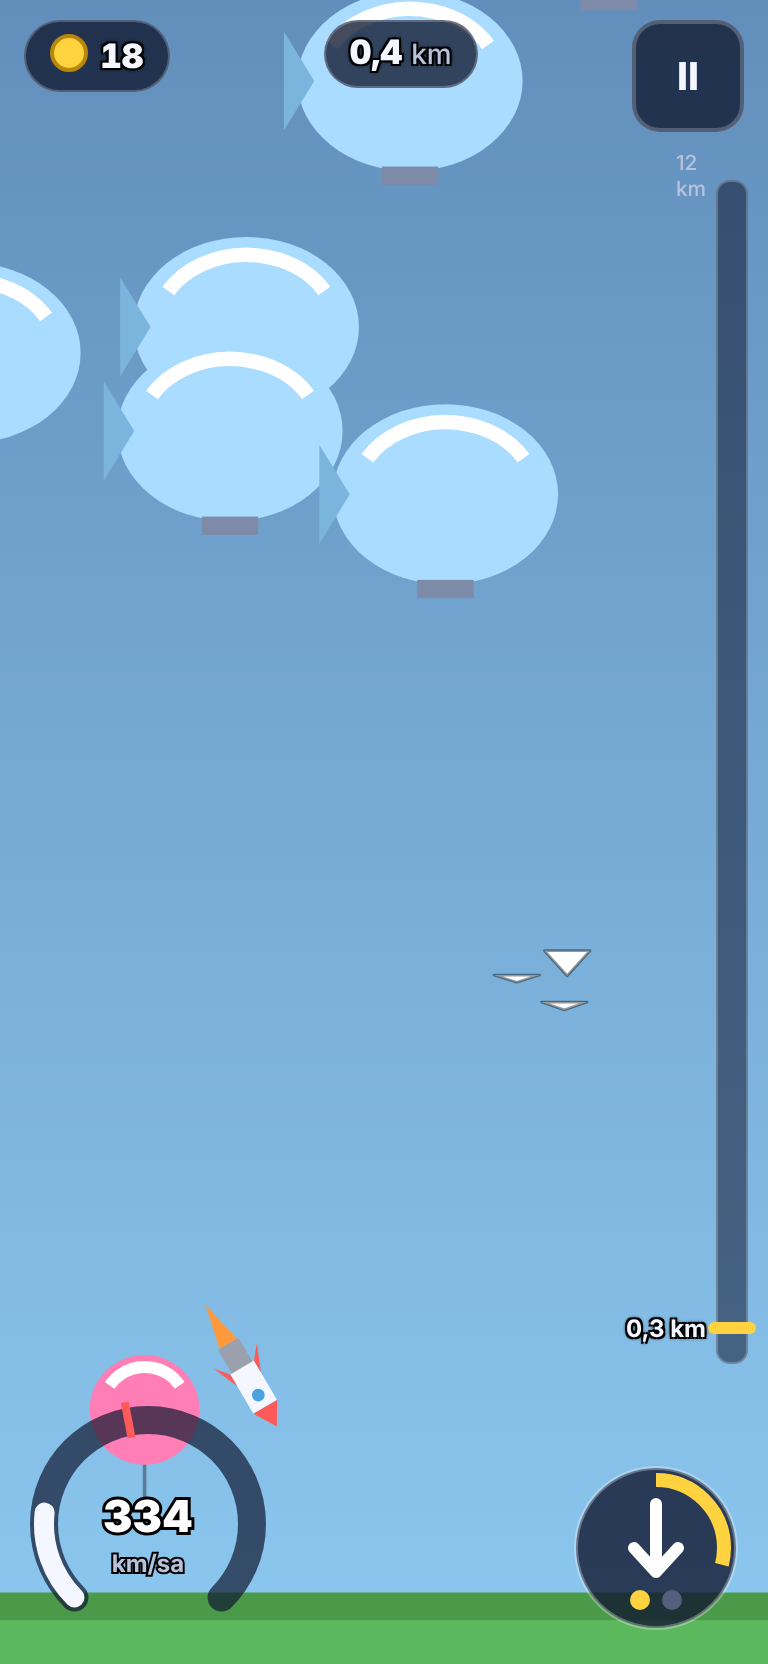
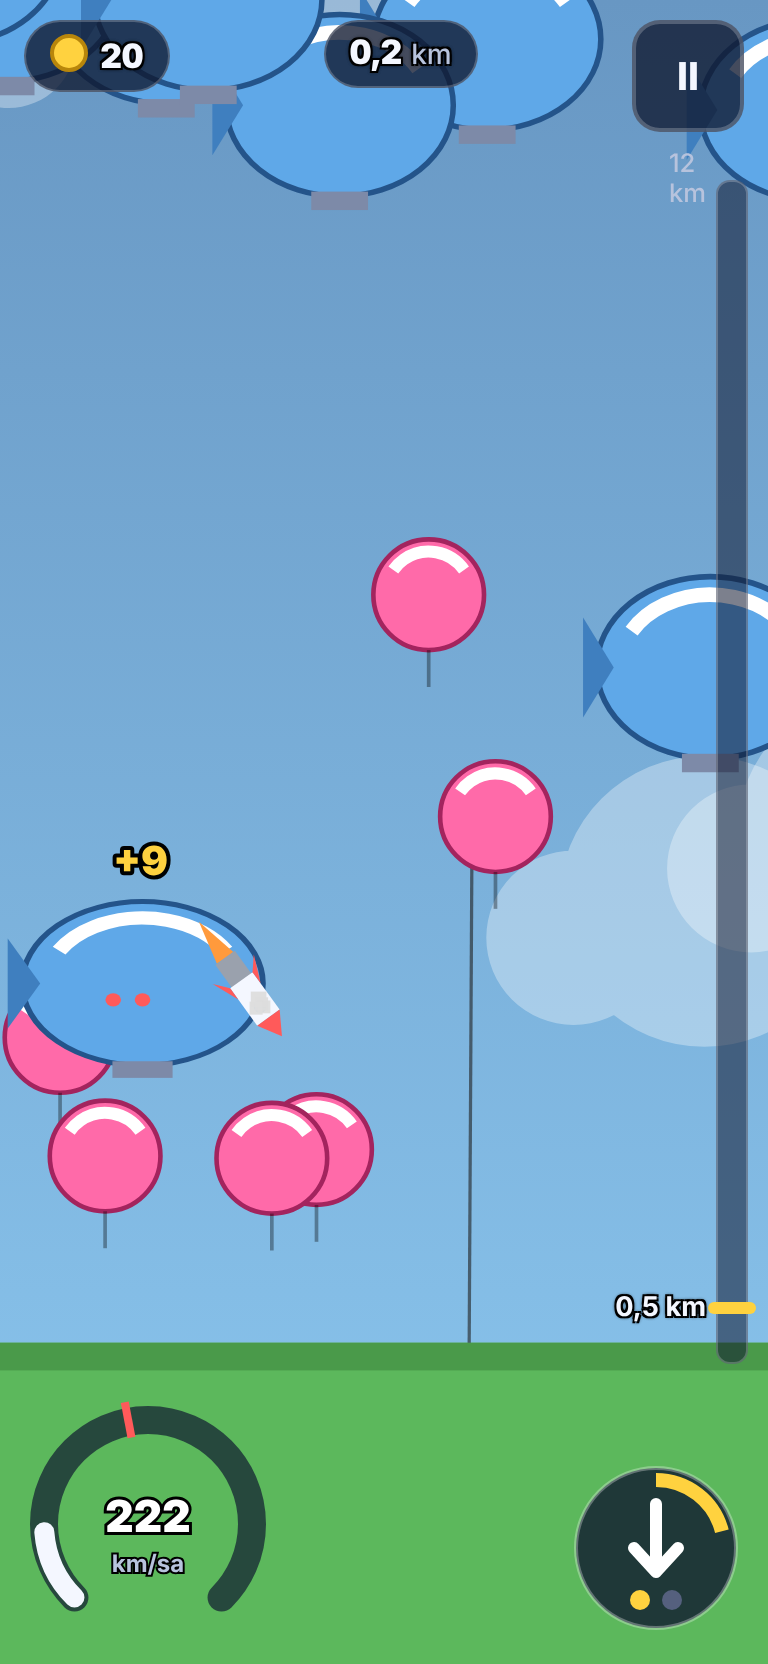
WIP: ara yedek (B0 düzeltmeleri, sim, ses)
Claude-Session: https://claude.ai/code/session_01FT8SNz1Hsnax27do6pkEGm

diff --git a/oyun/b0/index.html b/oyun/b0/index.html
@@ -110,7 +110,7 @@ body.rampada #ipucu{bottom:calc(env(safe-area-inset-bottom,0px) + 34% + 40vw + 1
 </head>
 <body>
 <!-- Üretilmiş yapılandırma (oyun/b0/araclar/ayar_uret.py yazar; elle düzenleme) -->
-<script type="application/json" id="ayar">{"kaynak":"oyun/sim/ucus_sim.py (ayar_uret.py ile üretildi; elle düzenleme)","AYAR":{"dt":0.008333333333333333,"g":30.0,"v_yorunge":600.0,"v_kacis":848.5281374238571,"g_yatay":true,"rho_olcek":400.0,"c_suruk":0.00012,"cd_ses":[[85,1.0],[100,2.4],[115,1.1]],"ses_v":115.0,"ses_sure":0.3,"isi_duvar_v":250.0,"duvar_sure":1.0,"isi_sure":3.0,"uzay_kosul":true,"isi_v":250.0,"isi_y":1000.0,"isi_hiz":3.0,"isi_sogu":25.0,"isi_cd":2.5,"y_karman":3500.0,"y_tropopoz":1000.0,"sonum":22.0,"sonum_yorunge":22.0,"sonum_alt":{"y0":300.0,"y1":3500.0,"ek":7.0},"ust_sonum":[2900.0,6.0],"v_dur":25.0,"dur_sure":2.0,"vx_dur":110.0,"tur_tavan":65.0,"r_roket":4.0,"rampa_y":60.0,"rampa_aci":38.0,"rampa_v":70.0,"rampa_v_sv":16.0,"rampa_oto":3.0,"kalite":{"mukemmel":1.3,"iyi":1.0,"zayif":0.8},"mukemmel_bolge":0.12,"mukemmel_bolge_sv":0.024,"mukemmel_bonus_sv":0.05,"acilis_sekme_dt":1.8,"k_tavan":0.92,"k_sv":0.012,"tekrar_sure":2.0,"dalis_aci":70.0,"dalis_koni":[66.0,76.0],"dalis_menzil":150.0,"dalis_menzil_k":1.0,"dalis_itki":14.0,"dalis_itki_sv":4.0,"dalis_sure":1.2,"bos_dalis_sure":0.4,"bos_dalis_kayip":0.1,"bos_dalis_aci":[-10.0,45.0],"dalis_kap":2,"gosterge_bas":1.0,"gosterge_tr":0.08,"gosterge_diger":0.13,"gosterge_m":0.1,"gosterge_firsat":0.3,"gosterge_sv":0.1,"mukemmel_sekme":0.1,"mukemmel_sekme_tavan":12.0,"kademe_y":25.0,"kademe_vy":78.0,"kademe_vy_sv":6.5,"kademe_vx":15.0,"kademe_vx_sv":6.5,"kademe_x_kayip":0.9,"kademe_ust_vy_kat":0.5,"kademe_cd":0.85,"son_ates":19.5,"ekran_w0":150.0,"ekran_wk":0.5,"ekran_wmax":500.0,"ekran_oran":2.1,"ekran_hedef":7,"romorkor_garanti":false,"romorkor_y":1500.0,"seyrek":{"y":1000.0,"t0":30.0,"adim":10.0,"kat":0.9,"en_az":0.5},"garanti_pay":25.0,"firsat_ara":30.0,"firsat_ara_sv":0.25,"firsat_min":6.0,"firsat_tur_max":5,"firsat_tur_muaf":["romorkor"],"olumcul_ara":22.0,"olumcul_uyari":1.5,"olumcul_rota":true,"kombo_sure":3.0,"kombo_sure_sv":0.5,"kombo_adim":0.05,"kombo_tavan":2.0,"kombo_tavan_sv":0.33,"carpan_tavan":4.0,"bant_carpan":[[1000.0,1.8],[3500.0,3.0]],"izlenme_sv":0.1,"odul_kat":0.1,"nesne_prim":2.0,"rakip_odul":0.45,"km_odul":55.0,"taban_odul":25.0,"sure_odul":0.0,"firsat_guc_kat":{"fisek":2.8,"konfeti":2.8,"jet":3.5,"romorkor":5.5},"fiyat_us":1.55,"ayar_tur":25},"SONUM_ALT":{"y0":300.0,"y1":3500.0,"ek":7.0},"DUVARLAR":{"ses":300},"TIPLER":{"balon":{"sinif":"tr","r":12,"ymin":40,"ymax":200,"w":3.0,"k":0.8,"aci":50,"yan":0.06,"odul":15,"omur":3,"acilis":1},"parti":{"sinif":"tr","r":10,"ymin":30,"ymax":150,"w":2.0,"k":0.7,"aci":42,"yan":0.02,"odul":10,"omur":2,"acilis":1},"zeplin":{"sinif":"tr","r":22,"ymin":80,"ymax":500,"w":1.2,"k":0.85,"aci":45,"yan":0.1,"odul":40,"omur":3,"acilis":1},"marti":{"sinif":"yv","r":13,"ymin":25,"ymax":180,"w":3.0,"kayip":0.06,"odul":20,"acilis":1},"ucurtma":{"sinif":"yv","r":7,"ymin":40,"ymax":220,"w":1.5,"kayip":0.02,"ip":0.15,"odul":6,"acilis":1}},"FIRSATLAR":{"yakit":{"r":9,"odul":20,"guc":1,"guc_sv":0.25,"f":"F1"}},"GELISTIRME":{"rampa":[10,60,1],"bolge":[5,80,2],"verim":[8,90,1],"dalis":[10,70,1],"kademe_itki":[8,200,1],"yakit_ac":[1,[150],2],"yakit_s":[4,100,2]},"fiyatlar":{"rampa":[60,93,144,223,346,537,832,1290,1999,3098],"bolge":[80,124,192,298,462],"verim":[90,140,216,335,519,805,1248,1934],"dalis":[70,108,168,261,404,626,971,1505,2332,3615],"kademe_itki":[200,310,481,745,1154,1789,2773,4299],"yakit_ac":[150],"yakit_s":[100,155,240,372]},"BOTLAR":{"hic":{"tut":0.0},"kotu":{"tepki":[0.4,0.7],"gurultu":0.5,"ongoru":0.2,"tut":0.25,"vazgec":0.3,"rampa_t":[0.4,2.0],"zayif":0.25,"rastgele_s":0.15},"orta":{"tepki":[0.25,0.4],"gurultu":0.25,"ongoru":0.7,"mukemmel":[0.5,0.6],"tut":0.35,"vazgec":0.5,"rampa_t":[0.6,1.4]},"iyi":{"tepki":[0.18,0.3],"gurultu":0.1,"ongoru":0.8,"mukemmel":[0.8,0.95],"tut":0.5,"vazgec":0.8,"rampa_t":[0.8,1.1]},"usta":{"tepki":[0.0,0.05],"gurultu":0.0,"ongoru":1.0,"mukemmel":[0.97,0.97],"tut":1.0,"vazgec":1.0,"rampa_t":[0.8,1.1]}},"BOT_SIRA":["hic","kotu","orta","iyi","usta"],"HIC_SIFIR":["dalis","bolge","yakit_ac","yakit_s"],"IRTIFA_TABLO":[[0,0],[25,0.2],[300,2],[1000,12],[3500.0,100],[6500.0,400]],"SABIT_EK":{"ust_vy_oran":0.35,"marti_donus_derece":2,"acilis_zeplin":{"dx":4,"y_min":65,"r_kat":0.5},"rakip_kalite":{"mukemmel":1.0,"iyi":0.4,"zayif":0.0},"cam_tau":0.8,"yonet_ara":0.1,"yonet":{"on_ekran":1,"dikey_pay":0.3,"y_min":25,"deneme":8},"temizlik":{"arka_ekran":1,"dikey_ekran":2.5,"sonuk_sure":0.5},"ekran_az":4,"garanti_ara":0.25,"garanti_adim":0.1,"rota_sure":6.0,"rota_adim":0.1,"garanti_pay_kat":0.6,"garanti_y_min":30,"garanti_x0":20,"garanti_tr_y_min":25,"firsat":{"ilk":[0.3,0.7],"sonra":[0.7,0.6],"tau":[1.6,1.0],"y_sapma":12,"y_min":30},"yakit":{"tut_ek":0.25,"cift_sv":4,"ek_sv":2,"ek":0.25},"aday":[0.15,80],"bot_bolge_kat":0.5,"hedef_dy_min":5,"hedef_r_kat":0.5,"bot_karar_ara":0.05,"tohum_bot":[7919,13],"tohum_tur":1000,"tohum_alici":[31,7],"duvar_sonraki":0.1,"alis_ufuk":[2.2,60.0,100.0]}}</script>
+<script type="application/json" id="ayar">{"kaynak":"oyun/sim/ucus_sim.py (ayar_uret.py ile üretildi; elle düzenleme)","AYAR":{"dt":0.008333333333333333,"g":30.0,"v_yorunge":600.0,"v_kacis":848.5281374238571,"g_yatay":true,"rho_olcek":400.0,"c_suruk":0.00012,"cd_ses":[[85,1.0],[100,2.4],[115,1.1]],"ses_v":115.0,"ses_sure":0.3,"isi_duvar_v":250.0,"duvar_sure":1.0,"isi_sure":2.5,"uzay_kosul":true,"isi_v":250.0,"isi_y":1000.0,"isi_hiz":3.0,"isi_sogu":25.0,"isi_cd":2.5,"y_karman":3500.0,"y_tropopoz":1000.0,"sonum":22.0,"sonum_yorunge":22.0,"sonum_alt":{"y0":300.0,"y1":3500.0,"ek":7.0},"ust_sonum":[2900.0,6.0],"v_dur":25.0,"dur_sure":2.0,"vx_dur":110.0,"tur_tavan":65.0,"r_roket":4.0,"rampa_y":60.0,"rampa_aci":38.0,"rampa_v":70.0,"rampa_v_sv":16.0,"rampa_oto":3.0,"kalite":{"mukemmel":1.3,"iyi":1.0,"zayif":0.8},"mukemmel_bolge":0.12,"mukemmel_bolge_sv":0.024,"mukemmel_bonus_sv":0.05,"acilis_sekme_dt":1.8,"k_tavan":0.92,"k_sv":0.012,"tekrar_sure":2.0,"dalis_aci":70.0,"dalis_koni":[66.0,76.0],"dalis_menzil":150.0,"dalis_menzil_k":1.0,"dalis_itki":14.0,"dalis_itki_sv":4.0,"dalis_sure":1.2,"bos_dalis_sure":0.4,"bos_dalis_kayip":0.0,"bos_dalis_aci":[-10.0,45.0],"dalis_kap":2,"gosterge_bas":1.0,"gosterge_tr":0.08,"gosterge_diger":0.13,"gosterge_m":0.1,"gosterge_firsat":0.3,"gosterge_sv":0.1,"mukemmel_sekme":0.1,"mukemmel_sekme_tavan":12.0,"kademe_y":25.0,"kademe_vy":78.0,"kademe_vy_sv":6.5,"kademe_vx":15.0,"kademe_vx_sv":6.5,"kademe_x_kayip":0.9,"kademe_ust_vy_kat":0.5,"kademe_cd":0.85,"son_ates":19.5,"ekran_w0":150.0,"ekran_wk":0.5,"ekran_wmax":500.0,"ekran_oran":2.1,"ekran_hedef":7,"romorkor_garanti":false,"romorkor_y":1500.0,"seyrek":{"y":1000.0,"t0":30.0,"adim":10.0,"kat":0.9,"en_az":0.5},"garanti_pay":25.0,"firsat_ara":30.0,"firsat_ara_sv":0.25,"firsat_min":6.0,"firsat_tur_max":5,"firsat_tur_muaf":["romorkor"],"olumcul_ara":22.0,"olumcul_uyari":1.5,"olumcul_rota":true,"kombo_sure":3.0,"kombo_sure_sv":0.5,"kombo_adim":0.05,"kombo_tavan":2.0,"kombo_tavan_sv":0.33,"carpan_tavan":4.0,"bant_carpan":[[1000.0,2.4],[3500.0,4.3]],"izlenme_sv":0.1,"odul_kat":0.1,"nesne_prim":2.8,"rakip_odul":0.2,"km_odul":75.0,"taban_odul":25.0,"sure_odul":0.0,"firsat_guc_kat":{"fisek":2.8,"konfeti":2.8,"jet":3.5,"romorkor":5.5},"fiyat_us":1.55,"ayar_tur":25},"SONUM_ALT":{"y0":300.0,"y1":3500.0,"ek":7.0},"DUVARLAR":{"ses":300},"TIPLER":{"balon":{"sinif":"tr","r":12,"ymin":40,"ymax":200,"w":3.0,"k":0.8,"aci":50,"yan":0.06,"odul":15,"omur":3,"acilis":1},"parti":{"sinif":"tr","r":10,"ymin":30,"ymax":150,"w":2.0,"k":0.7,"aci":42,"yan":0.02,"odul":10,"omur":2,"acilis":1},"zeplin":{"sinif":"tr","r":22,"ymin":80,"ymax":500,"w":1.2,"k":0.85,"aci":45,"yan":0.1,"odul":40,"omur":3,"acilis":1},"marti":{"sinif":"yv","r":13,"ymin":25,"ymax":180,"w":3.0,"kayip":0.06,"odul":20,"acilis":1},"ucurtma":{"sinif":"yv","r":7,"ymin":40,"ymax":220,"w":1.5,"kayip":0.02,"ip":0.15,"odul":6,"acilis":1}},"FIRSATLAR":{"yakit":{"r":9,"odul":20,"guc":1,"guc_sv":0.25,"f":"F1"}},"GELISTIRME":{"rampa":[10,60,1],"bolge":[5,80,2],"verim":[8,90,1],"dalis":[10,70,1],"kademe_itki":[8,200,1],"yakit_ac":[1,[150],2],"yakit_s":[4,100,2]},"fiyatlar":{"rampa":[60,93,144,223,346,537,832,1290,1999,3098],"bolge":[80,124,192,298,462],"verim":[90,140,216,335,519,805,1248,1934],"dalis":[70,108,168,261,404,626,971,1505,2332,3615],"kademe_itki":[200,310,481,745,1154,1789,2773,4299],"yakit_ac":[150],"yakit_s":[100,155,240,372]},"BOTLAR":{"hic":{"tut":0.0},"kotu":{"tepki":[0.4,0.7],"gurultu":0.5,"ongoru":0.2,"tut":0.25,"vazgec":0.3,"rampa_t":[0.4,2.0],"zayif":0.25,"rastgele_s":0.15},"orta":{"tepki":[0.25,0.4],"gurultu":0.25,"ongoru":0.7,"mukemmel":[0.5,0.6],"tut":0.35,"vazgec":0.5,"rampa_t":[0.6,1.4]},"iyi":{"tepki":[0.18,0.3],"gurultu":0.1,"ongoru":0.8,"mukemmel":[0.8,0.95],"tut":0.5,"vazgec":0.8,"rampa_t":[0.8,1.1]},"usta":{"tepki":[0.0,0.05],"gurultu":0.0,"ongoru":1.0,"mukemmel":[0.97,0.97],"tut":1.0,"vazgec":1.0,"rampa_t":[0.8,1.1]}},"BOT_SIRA":["hic","kotu","orta","iyi","usta"],"HIC_SIFIR":["dalis","bolge","yakit_ac","yakit_s"],"IRTIFA_TABLO":[[0,0],[25,0.2],[300,2],[1000,12],[3500.0,100],[6500.0,400]],"SABIT_EK":{"ust_vy_oran":0.35,"marti_donus_derece":2,"acilis_zeplin":{"dx":4,"y_min":65,"r_kat":0.5},"rakip_kalite":{"mukemmel":1.0,"iyi":0.4,"zayif":0.0},"cam_tau":0.8,"yonet_ara":0.1,"yonet":{"on_ekran":1,"dikey_pay":0.3,"y_min":25,"deneme":8},"temizlik":{"arka_ekran":1,"dikey_ekran":2.5,"sonuk_sure":0.5},"ekran_az":4,"garanti_ara":0.25,"garanti_adim":0.1,"rota_sure":6.0,"rota_adim":0.1,"garanti_pay_kat":0.6,"garanti_y_min":30,"garanti_x0":20,"garanti_tr_y_min":25,"firsat":{"ilk":[0.3,0.7],"sonra":[0.7,0.6],"tau":[1.6,1.0],"y_sapma":12,"y_min":30},"yakit":{"tut_ek":0.25,"cift_sv":4,"ek_sv":2,"ek":0.25},"aday":[0.15,80],"bot_bolge_kat":0.5,"hedef_dy_min":5,"hedef_r_kat":0.5,"bot_karar_ara":0.05,"tohum_bot":[7919,13],"tohum_tur":1000,"tohum_alici":[31,7],"duvar_sonraki":0.1,"alis_ufuk":[2.2,60.0,100.0]}}</script>
 
 <canvas id="cv" aria-label="Oyun sahnesi"></canvas>
 
@@ -219,10 +219,12 @@ const B0_ARAYUZ = {
   irtifa_ust_km: 12, hiz_ust: 250,                     // gösterge ölçekleri
   alt_pay_px: 160,                                     // zemin ekran altından bu kadar yukarıda: alt göstergeler roketi örtmesin (denetim)
   ust_bas: [0.15, 2.5],                                // ~ üstten sekmede trambolin görsel basılması (s, birim)
-  bidon_sure: 0.3,                                     // ~ dron bidonunun rokete uçuşu (s)
+  bidon_sure: 0.3,
+  durduran_ses_v: 100,                                 // ~ 'ses duvarı' kuralının en yüksek hız eşiği (iç hız; kullanıcı kararı)
+  abarti_rekor: 1.10, abarti_kisa: 0.5,                // kullanıcı kararı: abartılı bitiş = mesafe rekoru %10'dan fazla aşıldı (ilk tur hariç) ya da son 3 turun ortalamasının yarısından kısa                                     // ~ dron bidonunun rokete uçuşu (s)
   bot_kk_bekle: 3.0,                                   // görüntülü bot: kara kutuda bekleyip yeniden uçar
 };
-const YAKIT_HALKA = { tau_bas: 0.8, kat_bas: 3.0, pencere: [0.25, 0.05], ipucu: 'Halka daralınca dokun: tam dolum!' };
+const YAKIT_HALKA = { tau_bas: 0.8, kat_bas: 3.0, pencere: [0.25, 0.05], rota_kat: 2, ipucu: 'Halka daralınca dokun: tam dolum!' };
 const HIS = {   // [duraksama ms, sarsıntı, ağır çekim çarpanı, ağır çekim s] (~)
   hafif: [40, 0.15, 1, 0], sekme: [60, 0.25, 1, 0], mukemmel: [90, 0.40, 1, 0],
   firsat: [90, 0.40, 0.4, 0.3], son_sans: [200, 0.50, 0.3, 0.5],
@@ -231,15 +233,15 @@ const HIS = {   // [duraksama ms, sarsıntı, ağır çekim çarpanı, ağır ç
   titresim: { hafif: 10, mukemmel: 20, tam_dolum: 20, son_sans: 40, ses: [30, 40, 60] },
 };
 const GUVENLIK = { flas_max_hz: 3, parlama_alan_max: 0.30, parlama_ms_max: 100 };
-// Kullanıcıya görünen metinler (anahtardan okunur). "durduran.*" metinleri yer tutucudur: §20 K-C "öğretici" ton, kullanıcı onayı bekliyor (NOTLAR.md)
+// Kullanıcıya görünen metinler (anahtardan okunur). "durduran.*": §20 K-C öğretici ton (koordinatör/kullanıcı düzeltmeleri işlendi)
 const METIN = {
-  'durduran.ses': 'Ses duvarına {Δ} km/sa kaldı. Trambolinin üstüne dalış yap: mükemmel sekme hız ekler.',
+  'durduran.ses': 'Ses duvarına {Δ} km/sa kaldı. Balon ya da zeplinin üstüne dalış yap: mükemmel sekme hız ekler.',
   'durduran.dalis': 'Dalış hakkın dururken bitti. Altında balon ya da zeplin görünce dokun.',
   'durduran.ip': '{n} uçurtma ipine takıldın. İpler alçakta: yüksekte kalırsan geçersin.',
-  'durduran.yuksek': 'Yüksekte ileri hızın tükendi. Dalışla aşağı inip trambolinlerden hız topla.',
-  'durduran.durma': 'Hızın tükendi. Trambolinlere üstten düşersen hızını korursun.',
-  'durduran.yer': 'Yere indin. Alçalırken altındaki trambolinlere dalış yap.',
-  'durduran.sure': 'Süre doldu: ne uçuş! Bir sonraki turda daha hızlı git.',
+  'durduran.yuksek': 'Yüksekte ileri hızın tükendi. Dalışla aşağı inip balon ya da zeplinlerden hız topla.',
+  'durduran.durma': 'Hızın tükendi. Balon ya da zeplinlere üstten düşersen hızını korursun.',
+  'durduran.yer': 'Yere indin. Alçalırken altındaki balon ya da zeplinlere dalış yap.',
+  'durduran.sure': 'Süre doldu: harika uçuş! Daha hızlı gidersen aynı sürede daha uzağa varırsın.',
   kart: { rampa: 'Rampa gücü', bolge: 'Mükemmel bölge', verim: 'Sekme verimi', dalis: 'Dalış gücü', kademe_itki: 'Kademe itkisi', yakit_ac: 'Yakıt dronu', yakit_s: 'Yakıt dronu sıklığı' },
 };
 
@@ -661,7 +663,7 @@ class Ucus {
       const dx = o.x - this.x;
       if (dx <= 0) continue;
       const tau = (dx - (o.r + A.r_roket)) / Math.max(this.vx, 1);
-      if (tau <= YAKIT_HALKA.tau_bas) {
+      if (tau <= YAKIT_HALKA.tau_bas && Math.abs(this.rota_nokta(Math.max(0, tau))[1] - o.y) <= YAKIT_HALKA.rota_kat * (o.r + A.r_roket)) {   // kullanıcı kararı: yalnız dron rotadaysa
         o.halka_oldu = true;
         H.o = o; H.tau = tau; H.bas_t = this.t; H.deneme = null; H.temas_t = null; H.alindi = false; H.r0 = tau;
         this.emit('halka', o, tau);
@@ -896,7 +898,7 @@ const KAYIT_ANAHTAR = 'sdp_kayit', KAYIT_AC = Q.get('kayit') !== '0';
 function varsayilanKayit() {
   return { v: 1, jeton: 0, tur: 0,
     sv: { rampa: 0, bolge: 0, verim: 0, dalis: 0, kademe_itki: 0, yakit_ac: 0, yakit_s: 0 },
-    duvar: { ses: null }, rekor: { mesafe_g: 0, max_v: 0, max_y: 0 }, son: [], son_dalis: [],
+    duvar: { ses: null }, rekor: { mesafe_g: 0, max_v: 0, max_y: 0 }, son: [], son_dalis: [], son_mesafe: [], elle: 0,
     ipucu: { rampa: false, dalis: false, sekme: false, yakit: false },
     ayar: { efekt: 80, titresim: true, hareket_azalt: null, isik: false, yazi: 1.0, kalite: 'oto' }, bekleyen: null };
 }
@@ -910,6 +912,7 @@ function gecerli(k) {
   for (const a in d.sv) if (!Number.isInteger(k.sv?.[a]) || k.sv[a] < 0 || k.sv[a] > GEL[a][0]) return false;
   if (!k.rekor || !say(k.rekor.mesafe_g) || !say(k.rekor.max_v) || !say(k.rekor.max_y)) return false;
   if (!Array.isArray(k.son) || !Array.isArray(k.son_dalis) || !k.ipucu || !k.ayar || !k.duvar) return false;
+  if ((k.son_mesafe !== undefined && !Array.isArray(k.son_mesafe)) || (k.elle !== undefined && !(Number.isInteger(k.elle) && k.elle >= 0))) return false;
   const bk = k.bekleyen;   // eski biçim sayı; yeni { j, ses }
   if (bk !== null && !say(bk) && !(bk && typeof bk === 'object' && say(bk.j) && typeof bk.ses === 'boolean')) return false;
   return true;
@@ -1484,12 +1487,13 @@ function turSonu(elle) {   // tur kazancını hesapla ve kaydet (tek setItem; be
   const nesne = r.kazanc_nesne - r.kazanc_rakip;
   const toplam = elle ? nesne + r.kazanc_km + duvarOdul : r.kazanc + duvarOdul;
   const rek = { mesafe: r.mesafe_g > K.rekor.mesafe_g, hiz: r.max_v > K.rekor.max_v };
-  const kk = { r, elle, nesne, km: r.kazanc_km, prim: elle ? null : r.kazanc_rakip, taban: elle ? null : A.taban_odul, ses: duvarOdul, toplam: Math.round(toplam), rek, tur: K.tur + 1 };
+  const kk = { r, elle, nesne, km: r.kazanc_km, prim: elle ? null : r.kazanc_rakip, taban: elle ? null : A.taban_odul, ses: duvarOdul, toplam: Math.round(toplam), rek, tur: K.tur + 1 + (elle ? K.elle : 0) };
   if (!SV_Q) {   // ?sv'li oyun kayda yazmaz (?kayit=0 hiç yazmaz)
-    K.jeton += kk.toplam; K.tur += 1; K.bekleyen = null;
-    if (ilkSes) K.duvar.ses = K.tur;
+    K.jeton += kk.toplam; K.bekleyen = null;
+    if (elle) K.elle += 1; else K.tur += 1;   // elle bitirmeler ayrı sayılır (K16 "kendiliğinden tur" şişmesin)
+    if (ilkSes) K.duvar.ses = kk.tur;
     K.rekor.mesafe_g = Math.max(K.rekor.mesafe_g, r.mesafe_g); K.rekor.max_v = Math.max(K.rekor.max_v, r.max_v); K.rekor.max_y = Math.max(K.rekor.max_y, r.max_y);
-    K.son = [...K.son, kk.toplam].slice(-3); K.son_dalis = [...K.son_dalis, r.dalis].slice(-3);
+    if (!elle) { K.son = [...K.son, kk.toplam].slice(-3); K.son_dalis = [...K.son_dalis, r.dalis].slice(-3); K.son_mesafe = [...K.son_mesafe, r.mesafe_g].slice(-3); }
     KAYIT.yaz();
   }
   G.sonSonuc = r;
@@ -1499,7 +1503,8 @@ function elleKazanc() { const u = G.u; if (!u || G.asama !== 'UCUS') return 0; c
 function bitisBasla() {
   const u = G.u;
   G.asama = 'BITIS'; G.bitisT = 0; SES.vinDur();
-  G.bitisAbarti = u.bitti === 'yer' || u.st.mesafe_g > KAYIT.k.rekor.mesafe_g;
+  const K = KAYIT.k, U = B0_ARAYUZ, m = u.st.mesafe_g, sm = K.son_mesafe;
+  G.bitisAbarti = (K.tur > 0 && K.rekor.mesafe_g > 0 && m > K.rekor.mesafe_g * U.abarti_rekor) || (sm.length > 0 && m < ort(sm) * U.abarti_kisa);
   his('bitis'); if (G.bitisAbarti) SES.pat();
   G.kk = turSonu(false);
 }
@@ -1527,7 +1532,7 @@ function karaKutuAc() {
 const ort = (a) => a.length ? a.reduce((x, y) => x + y, 0) / a.length : 0;
 function durduranMetin(r) {
   const yer = (a, o) => METIN[a].replace(/\{(\S)\}/g, (_, k) => o[k]);
-  if (!r.duvar.includes('ses') && r.max_v >= A.cd_ses[0][0]) return yer('durduran.ses', { 'Δ': Math.round((hizGosterge(A.ses_v) - hizGosterge(r.max_v)) * 3.6) });
+  if (!r.duvar.includes('ses') && r.max_v >= B0_ARAYUZ.durduran_ses_v) return yer('durduran.ses', { 'Δ': Math.round((hizGosterge(A.ses_v) - hizGosterge(r.max_v)) * 3.6) });
   if (G.u.gosterge >= 1.0) return METIN['durduran.dalis'];
   if (r.ip >= 2) return yer('durduran.ip', { n: r.ip });
   if (r.bitis === 'durma' && r.son_y > A.y_tropopoz) return METIN['durduran.yuksek'];
@@ -1613,7 +1618,7 @@ function satinAl(ad) {
 }
 
 // ---- duraklat, devam, elle bitirme (§13.3)
-function duraklat() {   // (not: rampada sınıfı menüde kalabilir; ipucu menünün altında kalır)
+function duraklat() {
   if (G.duraklat || !(G.asama === 'RAMPA' || G.asama === 'UCUS') || G.donmus) return;
   G.duraklat = true; G.sayim = 0; $('sayim').hidden = true; SES.vinDur();
   ekranGoster('menu'); $('mTohum').textContent = 'Tohum ' + G.turSeed + (G.bot ? ' · bot ' + G.bot : '');
@@ -1862,7 +1867,7 @@ function acilis() {
   const K = KAYIT.k;
   if (K.bekleyen) {   // gizliyken öldürülmüş tur: kazanç bir kez eklenir; ses duvarı kırıldıysa ilk kırılış kaydedilir (ödül ikinci kez alınamaz)
     const bk = typeof K.bekleyen === 'number' ? { j: K.bekleyen, ses: false } : K.bekleyen, b = Math.round(bk.j);
-    K.jeton += b; K.tur += 1; if (bk.ses && K.duvar.ses === null) K.duvar.ses = K.tur;
+    K.jeton += b; K.elle += 1; if (bk.ses && K.duvar.ses === null) K.duvar.ses = K.tur + 1;
     K.bekleyen = null; KAYIT.yaz(); bildirim('Yarım kalan uçuş: +' + fmtN(b) + ' jeton');
   }
   if (KAYIT.bildirim) bildirim(KAYIT.bildirim);

diff --git a/oyun/ses/secici.html b/oyun/ses/secici.html
@@ -4,6 +4,7 @@
 <meta charset="utf-8">
 <meta name="viewport" content="width=device-width, initial-scale=1, viewport-fit=cover">
 <title>Ses Seçici</title>
+<link rel="icon" href="data:,">
 <style>
 :root {
   --zemin: #f4f1ea; --kart: #ffffff; --yazi: #1d1b18; --soluk: #6b665d; --cizgi: #ddd6c8;
@@ -176,6 +177,9 @@ function ozetGuncelle() {
 const AC = new (window.AudioContext || window.webkitAudioContext)();
 try { if (navigator.audioSession) navigator.audioSession.type = 'playback'; } catch (e) {}   // iOS: sessiz anahtarda da cal
 const ana = AC.createGain(); ana.connect(AC.destination);
+const olcer = AC.createAnalyser(); olcer.fftSize = 2048; ana.connect(olcer);
+// test kancasi: cikis seviyesi (son ~46 ms; tepe ve RMS, dBFS)
+window.__seviye = () => { const d = new Float32Array(olcer.fftSize); olcer.getFloatTimeDomainData(d); let t = 0, r = 0; for (const x of d) { t = Math.max(t, Math.abs(x)); r += x * x; } return { tepe: 20 * Math.log10(t + 1e-9), rms: 10 * Math.log10(r / d.length + 1e-18) }; };
 const sinir = AC.createDynamicsCompressor();   // ust uste binen seslerde kirpilmayi onler
 sinir.threshold.value = -6; sinir.knee.value = 6; sinir.ratio.value = 8; sinir.attack.value = 0.003; sinir.release.value = 0.15;
 sinir.connect(ana);
@@ -462,6 +466,7 @@ function sekme(sim_) {
   $('sekmeListe').setAttribute('aria-pressed', !sim_); $('sekmeSim').setAttribute('aria-pressed', sim_);
   $('liste').hidden = sim_; $('simBolum').hidden = !sim_;
   if (!sim_) simDurdur(); else onizlemeDurdur();
+  window.scrollTo(0, 0);
 }
 async function kur() {
   for (const k of L.kategori) katCiz(k.id);
